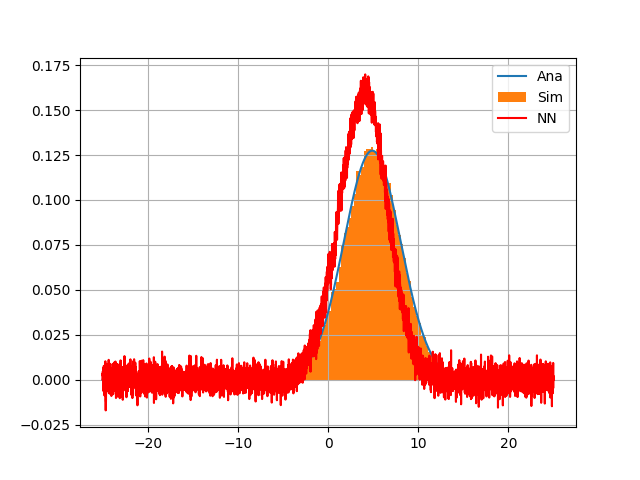
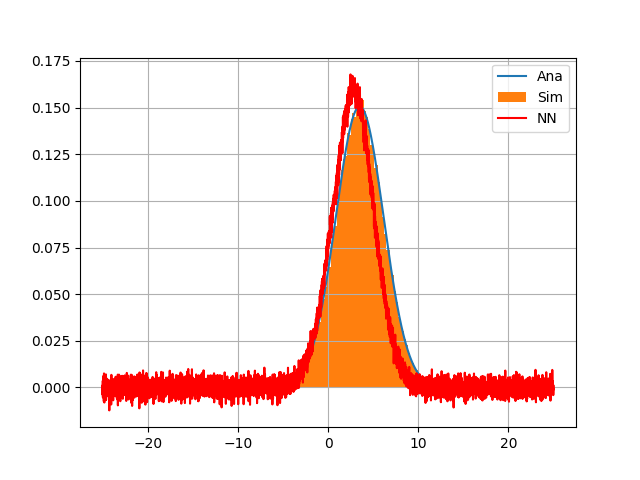
-

Changed region(s): [[0.0312, 0.125, 0.9062, 0.875], [0.0312, 0.875, 0.125, 0.9062]]

diff --git a/src/Neural_Network_python/code/modules/neural_network.py b/src/Neural_Network_python/code/modules/neural_network.py
@@ -47,23 +47,22 @@ class NN:
 
     def _train_test_data(self):
         self.df_ana_train = self.df_ana_processing[
-            0 : int(0.9 * len(self.df_ana_processing))
+            0 : int(0.7 * len(self.df_ana_processing))
         ]
         self.df_ana_test = self.df_ana_processing[
-            int(0.9 * len(self.df_ana_processing)) :
+            int(0.7 * len(self.df_ana_processing)) :
         ]
 
         self.df_sim_processing_train = self.df_sim_processing[
-            0 : int(0.9 * len(self.df_sim_processing))
+            0 : int(0.7 * len(self.df_sim_processing))
         ]
         self.df_sim_processing_test = self.df_sim_processing[
-            int(0.9 * len(self.df_sim_processing)) :
+            int(0.7 * len(self.df_sim_processing)) :
         ]
 
     def _shape_data(self):
         self.n_xtrain, self.m_xtrain = self.df_sim_processing_train.T.shape
         self.n_ytrain, self.m_ytrain = self.df_ana_train.T.shape
-        print(self.n_xtrain)
 
     def nn_model(self) -> object:
         self._data_prep()
@@ -81,7 +80,7 @@ class NN:
         modell_nn.add(Dense(units=1024, activation="gelu"))
         modell_nn.add(Dense(self.n_ytrain, activation="tanh"))
         modell_nn.compile(
-            optimizer=Adam(learning_rate=1e-4),
+            optimizer=Adam(learning_rate=1e-3),
             loss="mse",
             metrics=[keras.metrics.RootMeanSquaredError()],
         )
@@ -106,11 +105,11 @@ class NN:
     def fit_model(self, modell_nn: object) -> np.ndarray:
         return modell_nn.predict(self.df_sim_processing_test.values)
 
-    def comparison_nn_sim_ana(self, a: np.ndarray) -> None:
+    def comparison_nn_sim_ana(self, a: np.ndarray, time: int) -> None:
         df_sim_test = self.df_sim_processing_test.drop(columns="time")
-        plt.plot(self.df_ana_test.columns, self.df_ana_test.iloc[40], label="Ana")
-        df_sim_test.iloc[40].hist(bins=100, density=True, label="Sim")
-        plt.plot(self.df_ana_test.columns, a[40], "r", label="NN")
+        plt.plot(self.df_ana_test.columns, self.df_ana_test.iloc[time], label="Ana")
+        df_sim_test.iloc[time].hist(bins=100, density=True, label="Sim")
+        plt.plot(self.df_ana_test.columns, a[time], "r", label="NN")
         plt.legend()
         plt.savefig("./figures/comparison_nn_sim_ana_without_loss_physics.png")
         plt.show()

diff --git a/src/Neural_Network_python/code/main.py b/src/Neural_Network_python/code/main.py
@@ -28,14 +28,14 @@ def main() -> None:
     else:
         df_analytic = analytic.read_data()
     if args.comparison:
-        analytic.comparison(299)
+        analytic.comparison(5)
 
     # Neural Network
     nn = neural_network.NN()
     model_nn = nn.nn_model()
-    nn.fit_evaluate(model_nn, 250)
+    nn.fit_evaluate(model_nn, 30)
     fit_model = nn.fit_model(model_nn)
-    nn.comparison_nn_sim_ana(fit_model)
+    nn.comparison_nn_sim_ana(fit_model, 1)
 
 
 if __name__ == "__main__":